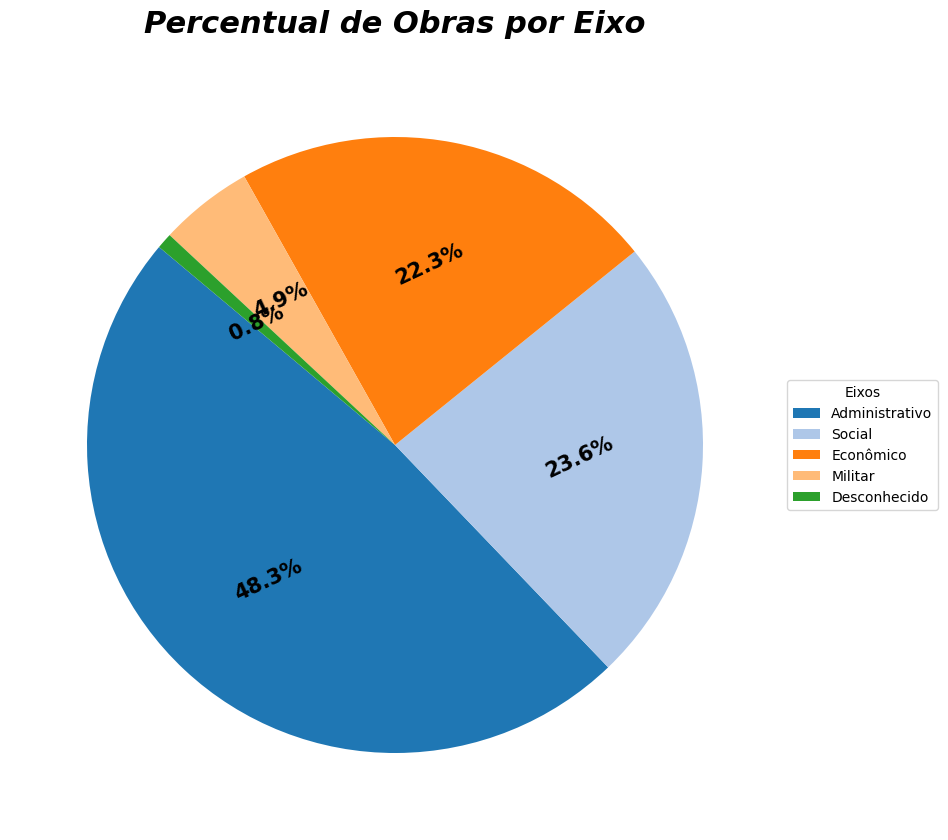
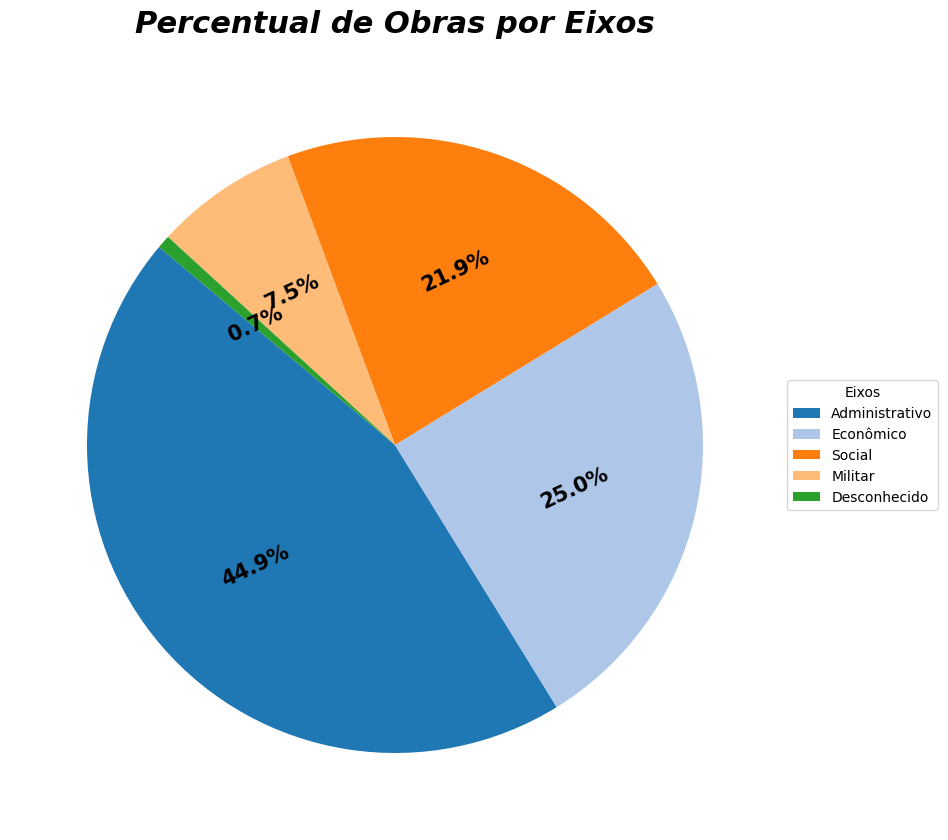
adição dos testes unitários e dos gráficos finais

diff --git a/graficos/moduloDeGraficos.py b/graficos/moduloDeGraficos.py
@@ -1,114 +1,102 @@
 import pandas as pd
 import os
-import json
 import matplotlib.pyplot as plt
-from modulo_tratamento_dados import carregaDados
-from modulo_tratamento_dados import normaliza_coluna_lista_dict
+from modulo_tratamento_dados import carregaDados, normaliza_coluna_lista_dict
 
-
-dados = normaliza_coluna_lista_dict(carregaDados(), 'eixos')
-
- # Função para salvar gráfico
 def salvar(fig, nome):
+    """
+    Salva a figura em uma pasta 'static/graficos' relativa ao arquivo.
+    """
     base_dir = os.path.dirname(__file__)
     output_dir = os.path.join(base_dir, 'static', 'graficos')
-    os.makedirs(output_dir, exist_ok=True)  # garante que pasta exista
+    os.makedirs(output_dir, exist_ok=True)
     path = os.path.join(output_dir, nome)
     fig.savefig(path, bbox_inches='tight')
     plt.close(fig)
 
-
-def grafico_barras_situacao(dados):
+def grafico_barras_situacao(df, nome_arquivo="situacao_obras.png"):
     """
-    Gera um gráfico de barras horizontais com a contagem da coluna 'situacao'
-    e salva usando a função salvar().
+    Gera e salva gráfico de barras horizontais da coluna 'situacao'.
     """
-    contagem = dados['situacao'].value_counts()
-
+    contagem = df['situacao'].value_counts()
     fig, ax = plt.subplots(figsize=(10, 6))
     barras = ax.barh(contagem.index, contagem.values, color='skyblue')
-
-    # Rótulos nas barras
     for barra in barras:
         largura = barra.get_width()
         ax.text(largura + 2, barra.get_y() + barra.get_height()/2,
                 f'{int(largura)}', va='center', fontsize=12)
-
-    # Estilo
     ax.set_xlabel("Quantidade de Obras", fontsize=13)
     ax.set_title("Distribuição das Obras por Situação", fontsize=15, fontweight='bold')
     ax.invert_yaxis()
     ax.grid(axis='x', linestyle='--', alpha=0.5)
+    salvar(fig, nome_arquivo)
 
-    # Salvar gráfico usando sua função
-    salvar(fig, "situacao_obras.png")
-grafico_barras_situacao(dados)
-
-
-def grafico_pizza_eixos(dados):
+def grafico_pizza_coluna(df, coluna, nome_arquivo):
     """
-    Gera um gráfico de pizza das obras divididas por 'eixo'
-    e salva usando a função salvar().
+    Gera e salva gráfico de pizza para a coluna especificada.
     """
-    contagem = dados['eixos'].value_counts()
-    explode = [0.1 if label == 'Sem eixo' else 0 for label in contagem.index]
-
+    contagem = df[coluna].value_counts()
+    explode = [0.1 if label == 'Sem eixo' else 0 for label in contagem.index] if coluna == 'eixos' else None
     fig, ax = plt.subplots(figsize=(10, 10))
     wedges, texts, autotexts = ax.pie(
         contagem,
         labels=None,
         autopct='%1.1f%%',
         startangle=140,
-        explode=explode, 
+        explode=explode,
         textprops={'fontsize': 15, 'fontweight':'bold'},
         colors=plt.cm.tab20.colors,
     )
-
     for autotext in autotexts:
         autotext.set_rotation(25)
-    ax.set_title("Percentual de Obras por Eixo",    
-                 fontsize=22,
-                 fontweight='bold',
-                 loc='center',
-                 pad=20,
-                 fontstyle='italic')
-    ax.legend(wedges, contagem.index, title="Eixos", loc="center left", bbox_to_anchor=(1, 0, 0.5, 1))
-    salvar(fig, "pizza_obras_por_eixo.png")
+    ax.set_title(f"Percentual de Obras por {coluna.capitalize()}",
+                 fontsize=22, fontweight='bold', loc='center', pad=20, fontstyle='italic')
+    ax.legend(wedges, contagem.index, title=coluna.capitalize(), loc="center left", bbox_to_anchor=(1, 0, 0.5, 1))
+    salvar(fig, nome_arquivo)
 
-
-grafico_pizza_eixos(dados)
-dados = normaliza_coluna_lista_dict(dados, 'tipos')
-def grafico_distribuicao_por_coluna(df, coluna):
+def grafico_barras_coluna(df, coluna, nome_arquivo):
     """
-    Gera um gráfico de barras horizontais com a contagem dos valores únicos
-    da coluna especificada e retorna a figura para salvar externamente.
-
-    Parâmetros:
-    - df: pandas.DataFrame
-    - coluna: nome da coluna a ser agregada (str)
-
-    Retorna:
-    - fig: objeto matplotlib.figure.Figure
+    Gera e salva gráfico de barras horizontais para a coluna especificada.
     """
     if coluna not in df.columns:
         raise ValueError(f"A coluna '{coluna}' não existe no DataFrame.")
-
-    # Contagem dos valores únicos
     contagem = df[coluna].value_counts()
-
-    # Criar a figura e os eixos
     fig, ax = plt.subplots(figsize=(12, 8))
     ax.barh(contagem.index, contagem.values, color='skyblue')
     ax.set_xlabel('Quantidade')
-    ax.set_title(f'Distribuição por {coluna}')
+    ax.set_title(f'Distribuição por {coluna.capitalize()}')
     ax.invert_yaxis()
     ax.grid(axis='x', linestyle='--', alpha=0.7)
-
-    # Mostrar os valores ao lado das barras
     for i, v in enumerate(contagem.values):
         ax.text(v + max(contagem.values) * 0.01, i, str(v), va='center')
-
     fig.tight_layout()
-    salvar(fig, "tipos_obras_colunas.png")
+    salvar(fig, nome_arquivo)
 
-grafico_distribuicao_por_coluna(dados, 'tipos')
+def grafico_barras_empilhadas(df, coluna_categoria, coluna_situacao, nome_arquivo):
+    """
+    Gera e salva gráfico de barras empilhadas mostrando a distribuição de situações por categoria.
+    """
+    if coluna_categoria not in df.columns or coluna_situacao not in df.columns:
+        raise ValueError("Colunas não encontradas no DataFrame.")
+    tabela = pd.crosstab(df[coluna_categoria], df[coluna_situacao])
+    fig, ax = plt.subplots(figsize=(12, 8))
+    tabela.plot(kind='bar', stacked=True, ax=ax, colormap='tab20')
+    ax.set_xlabel(coluna_categoria.capitalize())
+    ax.set_ylabel('Quantidade')
+    ax.set_title(f'Situação das Obras por {coluna_categoria.capitalize()}')
+    ax.legend(title=coluna_situacao.capitalize())
+    fig.tight_layout()
+    salvar(fig, nome_arquivo)
+
+if __name__ == "__main__":
+    # Carrega e normaliza dados necessários
+    dados = carregaDados()
+    dados = normaliza_coluna_lista_dict(dados, 'eixos')
+    dados = normaliza_coluna_lista_dict(dados, 'tipos')
+
+    grafico_barras_situacao(dados)
+    grafico_pizza_coluna(dados, 'eixos', "pizza_obras_por_eixo.png")
+    grafico_barras_coluna(dados, 'tipos', "tipos_obras_colunas.png")
+    grafico_barras_empilhadas(dados, 'eixos', 'situacao', "barras_empilhadas_eixo_situacao.png")
+    # Gráfico associando espécie (tipos) com situação
+    grafico_barras_empilhadas(dados, 'tipos', 'situacao', "barras_empilhadas_tipos_situacao.png")

diff --git a/graficos/modulo_tratamento_dados.py b/graficos/modulo_tratamento_dados.py
@@ -3,29 +3,26 @@ import pandas as pd
 import json
 
 def carregaDados(json_path=None):
-    base_dir = os.path.dirname(__file__)  # pasta onde está o script
-
-    # Caminho padrão se nenhum for fornecido
+    """
+    Carrega dados de um arquivo JSON e retorna um DataFrame.
+    Lança FileNotFoundError ou ValueError em caso de erro.
+    """
+    base_dir = os.path.dirname(__file__)
     if json_path is None:
         json_path = os.path.join(base_dir, '..', 'TestesMapa', 'obrasgov', 'src', 'obras_com_lat_long.json')
-
     try:
-        with open(json_path, 'r', encoding='utf-8') as arquivo:
-            dados = pd.read_json(arquivo)
+        dados = pd.read_json(json_path, encoding='utf-8')
     except FileNotFoundError:
-        print(f"Arquivo não encontrado: {json_path}")
-        dados = None
-    except json.JSONDecodeError:
-        print("Erro ao decodificar o JSON.")
-        dados = None
-
-    if dados is None:
-        raise SystemExit("Dados não carregados. Encerrando o programa.")
-    
+        raise FileNotFoundError(f"Arquivo não encontrado: {json_path}")
+    except ValueError as e:
+        raise ValueError(f"Erro ao ler o JSON: {e}")
     return dados
 
 def normaliza_coluna_lista_dict(df, coluna, chave='descricao', padrao='Desconhecido', valor_se_vazio='Desconhecido'):
-
+    """
+    Normaliza uma coluna do DataFrame que contém listas de dicionários.
+    Extrai o valor de 'chave' de cada dicionário, explode a lista em linhas e preenche valores vazios.
+    """
     df = df.copy()
     df[coluna] = df[coluna].apply(
         lambda lista: [item.get(chave, padrao) for item in lista] if isinstance(lista, list) else []

diff --git a/graficos/test_moduloDeGraficos.py b/graficos/test_moduloDeGraficos.py
@@ -1,0 +1,35 @@
+import pandas as pd
+import os
+from moduloDeGraficos import (
+    grafico_barras_situacao,
+    grafico_pizza_coluna,
+    grafico_barras_coluna,
+    grafico_barras_empilhadas,
+)
+
+def test_grafico_barras_situacao(tmp_path):
+    df = pd.DataFrame({'situacao': ['A', 'B', 'A']})
+    output = tmp_path / "barras_situacao.png"
+    grafico_barras_situacao(df, str(output))
+    assert output.exists()
+
+def test_grafico_pizza_coluna(tmp_path):
+    df = pd.DataFrame({'eixos': ['X', 'Y', 'X']})
+    output = tmp_path / "pizza_eixos.png"
+    grafico_pizza_coluna(df, 'eixos', str(output))
+    assert output.exists()
+
+def test_grafico_barras_coluna(tmp_path):
+    df = pd.DataFrame({'tipos': ['T1', 'T2', 'T1']})
+    output = tmp_path / "barras_tipos.png"
+    grafico_barras_coluna(df, 'tipos', str(output))
+    assert output.exists()
+
+def test_grafico_barras_empilhadas(tmp_path):
+    df = pd.DataFrame({
+        'tipos': ['T1', 'T1', 'T2'],
+        'situacao': ['A', 'B', 'A']
+    })
+    output = tmp_path / "empilhadas.png"
+    grafico_barras_empilhadas(df, 'tipos', 'situacao', str(output))
+    assert output.exists()

diff --git a/graficos/test_moduloTratamentoDeDados.py b/graficos/test_moduloTratamentoDeDados.py
@@ -1,0 +1,26 @@
+import pytest
+import pandas as pd
+from modulo_tratamento_dados import normaliza_coluna_lista_dict
+
+def test_normaliza_coluna_lista_dict_basico():
+    df = pd.DataFrame({
+        'id': [1, 2],
+        'tipos': [
+            [{'descricao': 'Escola'}, {'descricao': 'Hospital'}],
+            [{'descricao': 'Ponte'}]
+        ]
+    })
+    df_norm = normaliza_coluna_lista_dict(df, 'tipos')
+    assert set(df_norm['tipos']) == {'Escola', 'Hospital', 'Ponte'}
+    assert len(df_norm) == 3
+
+def test_normaliza_coluna_lista_dict_vazio():
+    df = pd.DataFrame({'id': [1], 'tipos': [[]]})
+    df_norm = normaliza_coluna_lista_dict(df, 'tipos')
+    # Após explode, DataFrame pode ficar vazio ou conter 'Desconhecido'
+    assert df_norm.empty or (df_norm['tipos'].iloc[0] == 'Desconhecido')
+
+def test_normaliza_coluna_lista_dict_sem_coluna():
+    df = pd.DataFrame({'id': [1]})
+    with pytest.raises(KeyError):
+        normaliza_coluna_lista_dict(df, 'tipos')
